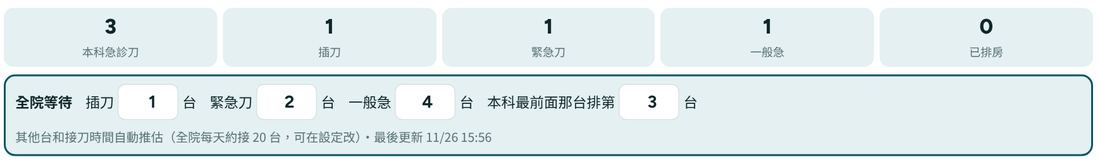
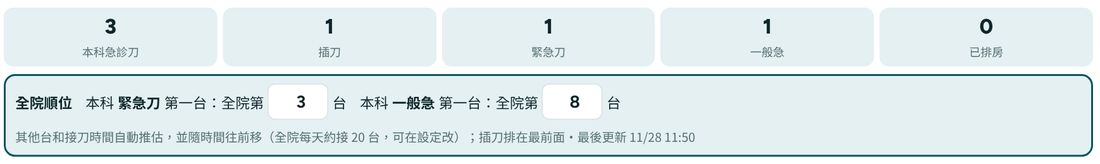
重新匯入：新增的首台／門診刀插到它的時段；急診刀只填兩個全院順位、顯示預估 on 刀
重新匯入
- 新增的 08:30 首台排在該房第一；門診刀（有時間）插到它的時間位置；TF 才排最後

急診刀
- 全院順位只要填「本科緊急刀第一台、一般急第一台各在全院第幾台」，各類從自己的第一台往後推、隨時間往前移；插刀排最前面
- 手機卡片拿掉全院順位與 −／＋，最上面整行顯示「預估 on 刀」時間（說明文字換行）
- 電腦版表格拿掉全院順位欄，「預估 on 刀」移到第二欄
- 教學文字與截圖同步（假資料）

Claude-Session: https://claude.ai/code/session_01TCzKUqo2qmmYr6UhmmkBbP

diff --git a/開發說明.md b/開發說明.md
@@ -127,8 +127,9 @@
 - 3 間以上需專責的房 → 自動加入支援專責
 - 週二週四晨會延誤：先離開 2 人（部長房 → IVGA/局麻房），不含達文西
 - 急診刀重複上傳：用「病人代碼」或「送單日＋送單時＋主治」辨識同一台（不比術式文字）；已存在就更新術式、房間時段，保留狀態／NPO／備註；被刪除的不再加回；清單裡原本重複的在載入時合併（`erDedupe`）
+- 急診刀預估 on 刀：只要填「本科緊急刀第一台、一般急第一台各在全院第幾台」（`ERS.hosp.uq／gq`），各類從自己的第一台往後推、隨時間往前移；插刀排最前面
 - 急診刀：插刀 > 緊急 > 一般急；填全院等待的「插刀／緊急刀／一般急」台數與「本科最前面第幾台」即推估；緊急 NPO 4h、一般急 6h，插刀/已插管免
-- 重新匯入同一天刀表：已存在的刀全部保留（順序、房間、首台／當日刀等標記、手動時間、備註），只更新術式名稱；新增的刀一律排在該房最後（不設首台）。配對順序：先「同主治＋同術式」（同房優先），配不到才看「同房同主治同時段」，避免 HIS 刪刀後 TF 編號遞補造成錯配。只有刀表裡**明確標刪除**（已刪／刪除／取消、時間非整 10 分）的刀會被移除；這次刀表沒有的刀照原樣保留（例如只貼了部分房間）
+- 重新匯入同一天刀表：已存在的刀全部保留（順序、房間、首台／當日刀等標記、手動時間、備註），只更新術式名稱；新增的刀：08:30 首台排在該房第一、門診刀（有時間）插到它的時間位置、TF 才排最後。配對順序：先「同主治＋同術式」（同房優先），配不到才看「同房同主治同時段」，避免 HIS 刪刀後 TF 編號遞補造成錯配。只有刀表裡**明確標刪除**（已刪／刪除／取消、時間非整 10 分）的刀會被移除；這次刀表沒有的刀照原樣保留（例如只貼了部分房間）
 
 ## 黃部長交班單 → 術前資料
 - Apps Script：`hoRows()` 讀交班單所有分頁中 7 欄的表格（床號姓名病歷號／Past history／Present illness／Drain／Treatment／Exam,lab／Plan）；`hoParse(rows, dates)` 是純文字解析，可用 node 的 `vm` 載入 `Code.gs` 測試；`handoffFor()` 結果快取 5 分鐘。網址：`?action=handoff&dates=YYYY-MM-DD`，GAS 內用 `apiHandoff`。
